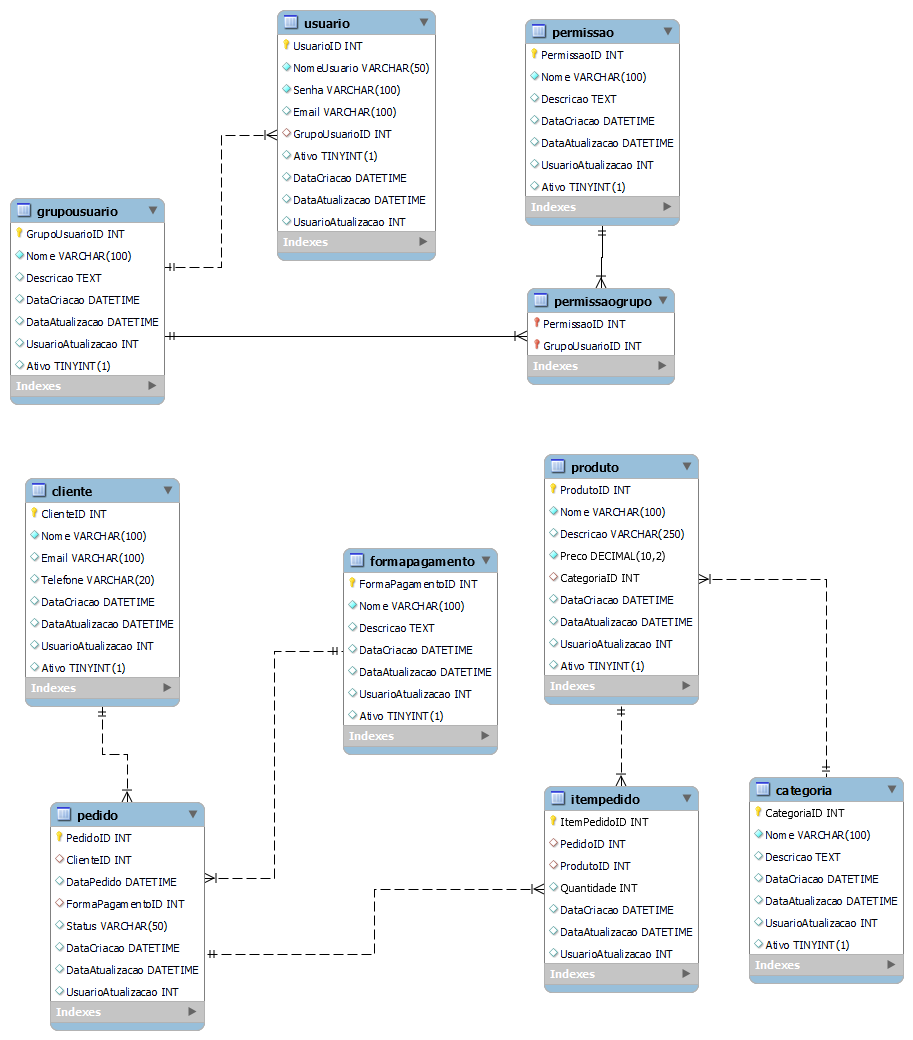
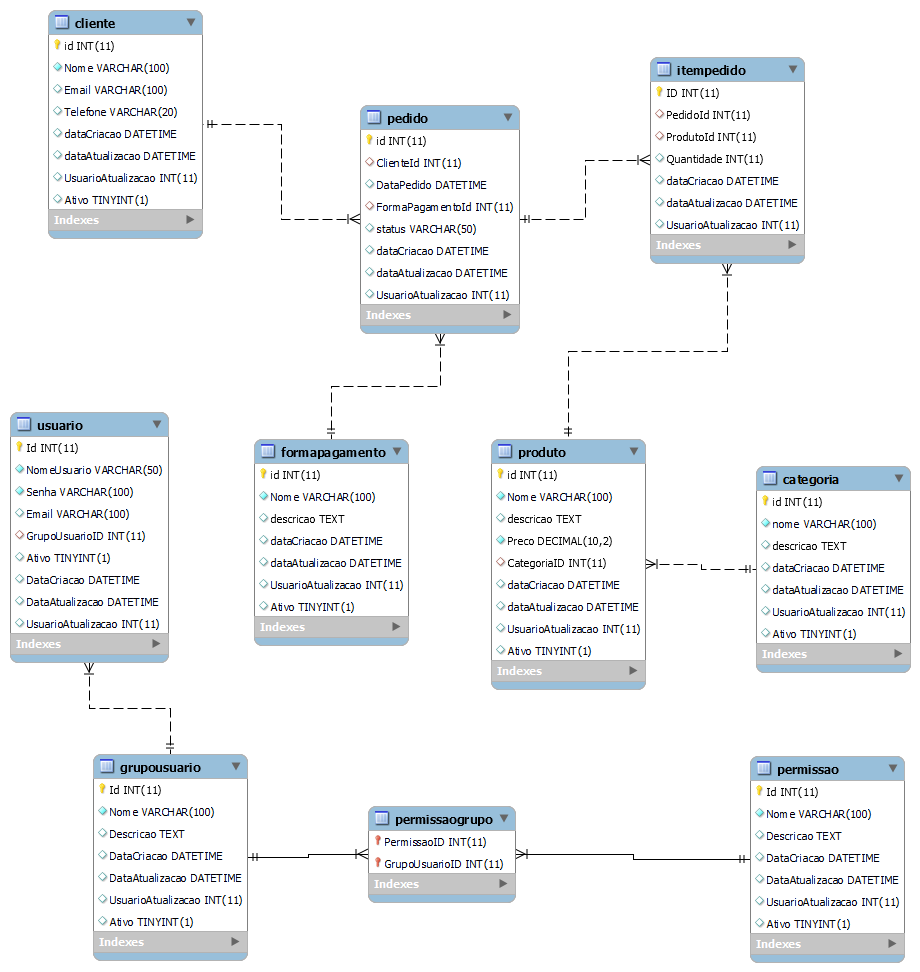
Upadate README

diff --git a/README.md b/README.md
@@ -1,2 +1,18 @@
-# projeto_sistema_vendas
+# Projeto Sistema de Vendas
 Sistema básico exemplificando as interações de uma aplicação desenvolvida a partir do seu banco de dados, contendo diagramas de cada camada do desenvolvimento.
+
+## Banco de Dados
+
+-- Sistema utiliza um Banco de Dados desenvolvido com o [MySql](https://www.mysql.com/)
+
+## Diagrama 
+
+![image](/banco_de_dados/diagram_DB.png)
+
+## Backend
+
+-- Reservado para o desenvolvimento em PHP
+
+## Frontend
+
+-- Reservado para o desenvovimento em React

diff --git a/banco_de_dados/descricao_tabelas.md b/banco_de_dados/descricao_tabelas.md
@@ -1,3 +1,5 @@
+# sistema_vendas
+
 Categoria: Armazena informações sobre as categorias dos produtos disponíveis para venda.
 CategoriaID: Chave primária única para identificar cada categoria.
 Nome: Nome da categoria.
